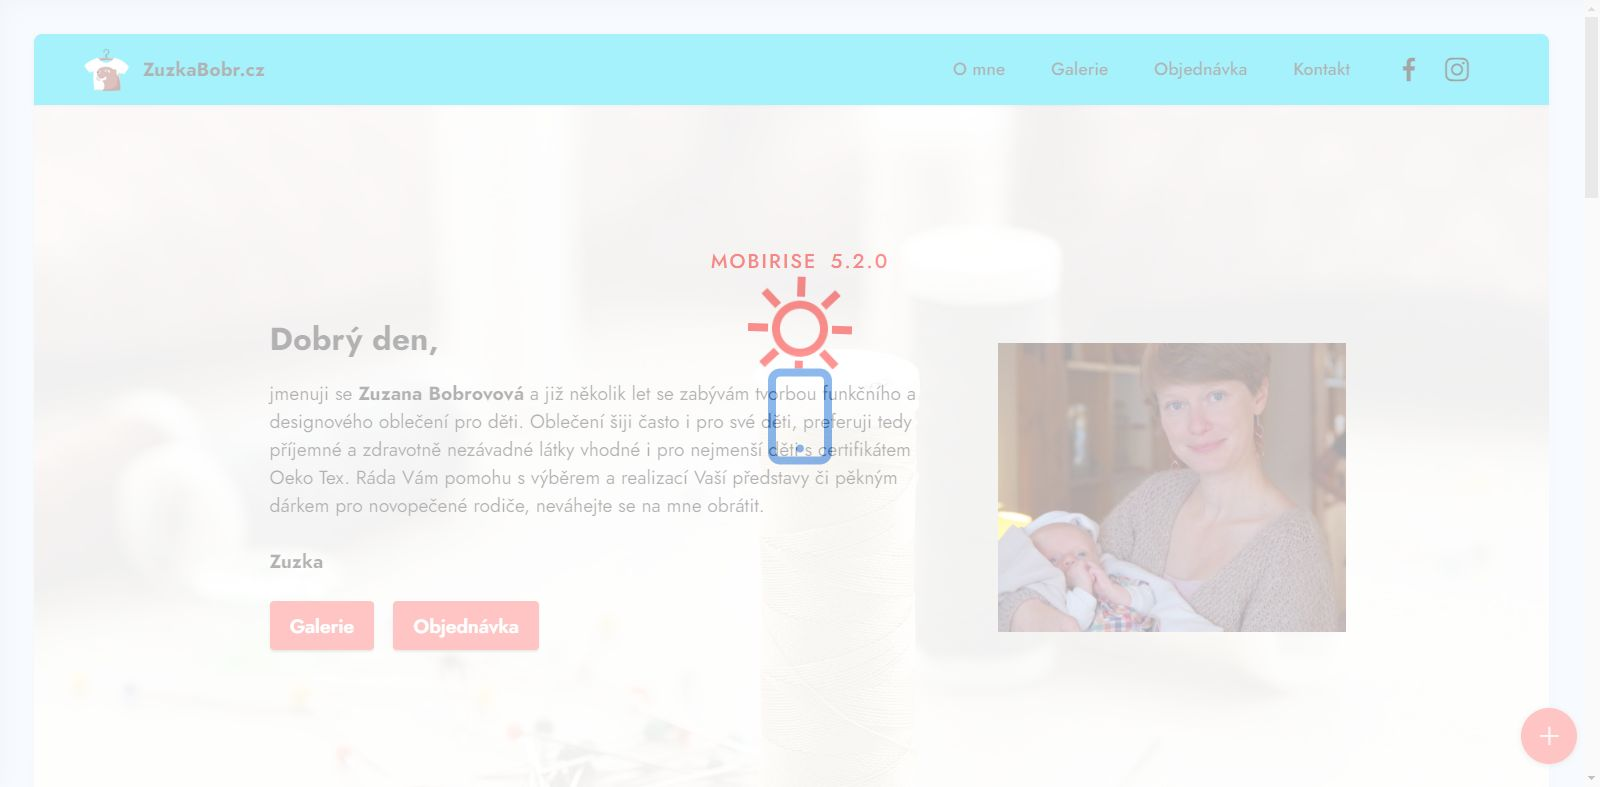
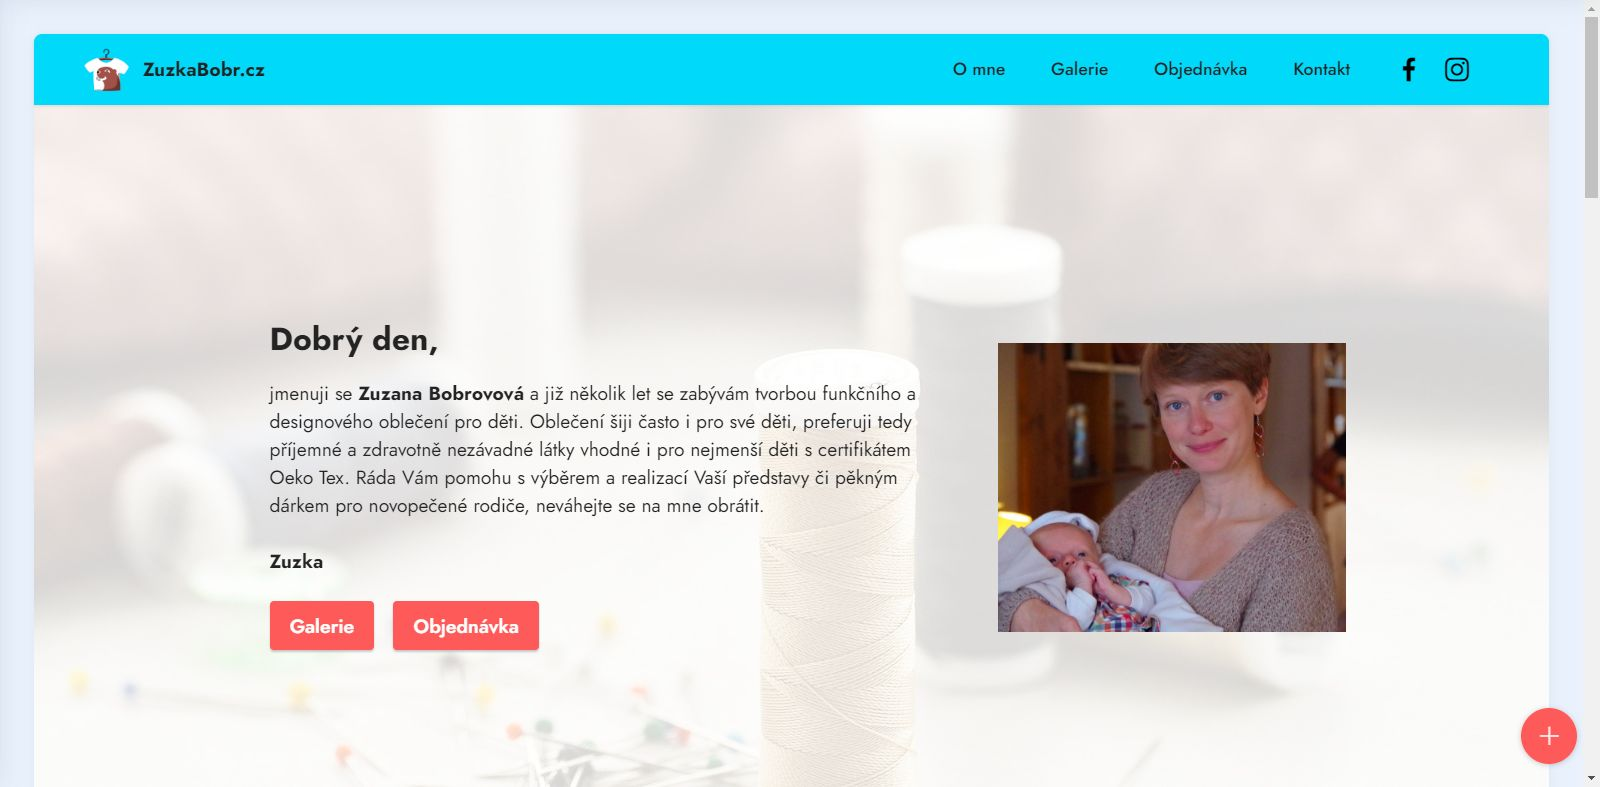
fix menu links

diff --git a/docs/index.html b/docs/index.html
@@ -51,12 +51,12 @@
             <div class="container-fluid">
                 <div class="navbar-brand">
                     <span class="navbar-logo">
-                        <a href="https://mobiri.se">
+                        <a href="http://zuzkabobr.cz">
                             <img src="assets/images/zb-podklady-ai-128x128.png" alt="Mobirise" style="height: 3rem;">
                         </a>
                     </span>
-                    <span class="navbar-caption-wrap"><a class="navbar-caption text-black display-7"
-                            href="https://mobiri.se">ZuzkaBobr.cz</a></span>
+                    <span class="navbar-caption-wrap"><a class="navbar-caption text-black text-primary display-7"
+                            href="http://zuzkabobr.cz">ZuzkaBobr.cz</a></span>
                 </div>
                 <button class="navbar-toggler" type="button" data-toggle="collapse"
                     data-target="#navbarSupportedContent" aria-controls="navbarNavAltMarkup" aria-expanded="false"
@@ -148,9 +148,9 @@
             <div class="row mbr-gallery mt-4">
 
                 <div class="col-12 col-md-6 col-lg-3 item gallery-image">
-                    <div class="item-wrapper" data-toggle="modal" data-target="#smf4UAraHh-modal">
+                    <div class="item-wrapper" data-toggle="modal" data-target="#smrcBO7bPe-modal">
                         <img class="w-100" src="assets/images/imgp2742-725x1094.jpg" alt="" data-slide-to="0"
-                            data-target="#lb-smf4UAraHh">
+                            data-target="#lb-smrcBO7bPe">
                         <div class="icon-wrapper">
                             <span class="mobi-mbri mobi-mbri-search mbr-iconfont mbr-iconfont-btn"></span>
                         </div>
@@ -159,9 +159,9 @@
                 </div>
 
                 <div class="col-12 col-md-6 col-lg-3 item gallery-image">
-                    <div class="item-wrapper" data-toggle="modal" data-target="#smf4UAraHh-modal">
+                    <div class="item-wrapper" data-toggle="modal" data-target="#smrcBO7bPe-modal">
                         <img class="w-100" src="assets/images/imgp0856-725x1094.jpg" alt="" data-slide-to="1"
-                            data-target="#lb-smf4UAraHh">
+                            data-target="#lb-smrcBO7bPe">
                         <div class="icon-wrapper">
                             <span class="mobi-mbri mobi-mbri-search mbr-iconfont mbr-iconfont-btn"></span>
                         </div>
@@ -169,9 +169,9 @@
 
                 </div>
                 <div class="col-12 col-md-6 col-lg-3 item gallery-image">
-                    <div class="item-wrapper" data-toggle="modal" data-target="#smf4UAraHh-modal">
+                    <div class="item-wrapper" data-toggle="modal" data-target="#smrcBO7bPe-modal">
                         <img class="w-100" src="assets/images/imgp1259-725x1094.jpg" alt="" data-slide-to="2"
-                            data-target="#lb-smf4UAraHh">
+                            data-target="#lb-smrcBO7bPe">
                         <div class="icon-wrapper">
                             <span class="mobi-mbri mobi-mbri-search mbr-iconfont mbr-iconfont-btn"></span>
                         </div>
@@ -179,9 +179,9 @@
 
                 </div>
                 <div class="col-12 col-md-6 col-lg-3 item gallery-image">
-                    <div class="item-wrapper" data-toggle="modal" data-target="#smf4UAraHh-modal">
+                    <div class="item-wrapper" data-toggle="modal" data-target="#smrcBO7bPe-modal">
                         <img class="w-100" src="assets/images/imgp2295-725x1094.jpg" alt="" data-slide-to="3"
-                            data-target="#lb-smf4UAraHh">
+                            data-target="#lb-smrcBO7bPe">
                         <div class="icon-wrapper">
                             <span class="mobi-mbri mobi-mbri-search mbr-iconfont mbr-iconfont-btn"></span>
                         </div>
@@ -189,9 +189,9 @@
 
                 </div>
                 <div class="col-12 col-md-6 col-lg-3 item gallery-image">
-                    <div class="item-wrapper" data-toggle="modal" data-target="#smf4UAraHh-modal">
+                    <div class="item-wrapper" data-toggle="modal" data-target="#smrcBO7bPe-modal">
                         <img class="w-100" src="assets/images/imgp2304-1-725x1094.jpg" alt="" data-slide-to="4"
-                            data-target="#lb-smf4UAraHh">
+                            data-target="#lb-smrcBO7bPe">
                         <div class="icon-wrapper">
                             <span class="mobi-mbri mobi-mbri-search mbr-iconfont mbr-iconfont-btn"></span>
                         </div>
@@ -199,9 +199,9 @@
 
                 </div>
                 <div class="col-12 col-md-6 col-lg-3 item gallery-image">
-                    <div class="item-wrapper" data-toggle="modal" data-target="#smf4UAraHh-modal">
+                    <div class="item-wrapper" data-toggle="modal" data-target="#smrcBO7bPe-modal">
                         <img class="w-100" src="assets/images/imgp2743-725x1094.jpg" alt="" data-slide-to="5"
-                            data-target="#lb-smf4UAraHh">
+                            data-target="#lb-smrcBO7bPe">
                         <div class="icon-wrapper">
                             <span class="mobi-mbri mobi-mbri-search mbr-iconfont mbr-iconfont-btn"></span>
                         </div>
@@ -209,9 +209,9 @@
 
                 </div>
                 <div class="col-12 col-md-6 col-lg-3 item gallery-image">
-                    <div class="item-wrapper" data-toggle="modal" data-target="#smf4UAraHh-modal">
+                    <div class="item-wrapper" data-toggle="modal" data-target="#smrcBO7bPe-modal">
                         <img class="w-100" src="assets/images/imgp7219-530x800.jpg" alt="" data-slide-to="6"
-                            data-target="#lb-smf4UAraHh">
+                            data-target="#lb-smrcBO7bPe">
                         <div class="icon-wrapper">
                             <span class="mobi-mbri mobi-mbri-search mbr-iconfont mbr-iconfont-btn"></span>
                         </div>
@@ -219,9 +219,9 @@
 
                 </div>
                 <div class="col-12 col-md-6 col-lg-3 item gallery-image">
-                    <div class="item-wrapper" data-toggle="modal" data-target="#smf4UAraHh-modal">
+                    <div class="item-wrapper" data-toggle="modal" data-target="#smrcBO7bPe-modal">
                         <img class="w-100" src="assets/images/imgp8569-530x800.jpg" alt="" data-slide-to="7"
-                            data-target="#lb-smf4UAraHh">
+                            data-target="#lb-smrcBO7bPe">
                         <div class="icon-wrapper">
                             <span class="mobi-mbri mobi-mbri-search mbr-iconfont mbr-iconfont-btn"></span>
                         </div>
@@ -230,11 +230,11 @@
                 </div>
             </div>
 
-            <div class="modal mbr-slider" tabindex="-1" role="dialog" aria-hidden="true" id="smf4UAraHh-modal">
+            <div class="modal mbr-slider" tabindex="-1" role="dialog" aria-hidden="true" id="smrcBO7bPe-modal">
                 <div class="modal-dialog" role="document">
                     <div class="modal-content">
                         <div class="modal-body">
-                            <div class="carousel slide" id="lb-smf4UAraHh" data-interval="5000">
+                            <div class="carousel slide" id="lb-smrcBO7bPe" data-interval="5000">
                                 <div class="carousel-inner">
 
                                     <div class="carousel-item active">
@@ -264,24 +264,24 @@
                                     </div>
                                 </div>
                                 <ol class="carousel-indicators">
-                                    <li data-slide-to="0" class="active" data-target="#lb-smf4UAraHh"></li>
-                                    <li data-slide-to="1" data-target="#lb-smf4UAraHh"></li>
-                                    <li data-slide-to="2" data-target="#lb-smf4UAraHh"></li>
-                                    <li data-slide-to="3" data-target="#lb-smf4UAraHh"></li>
-                                    <li data-slide-to="4" data-target="#lb-smf4UAraHh"></li>
-                                    <li data-slide-to="5" data-target="#lb-smf4UAraHh"></li>
-                                    <li data-slide-to="6" data-target="#lb-smf4UAraHh"></li>
-                                    <li data-slide-to="7" data-target="#lb-smf4UAraHh"></li>
+                                    <li data-slide-to="0" class="active" data-target="#lb-smrcBO7bPe"></li>
+                                    <li data-slide-to="1" data-target="#lb-smrcBO7bPe"></li>
+                                    <li data-slide-to="2" data-target="#lb-smrcBO7bPe"></li>
+                                    <li data-slide-to="3" data-target="#lb-smrcBO7bPe"></li>
+                                    <li data-slide-to="4" data-target="#lb-smrcBO7bPe"></li>
+                                    <li data-slide-to="5" data-target="#lb-smrcBO7bPe"></li>
+                                    <li data-slide-to="6" data-target="#lb-smrcBO7bPe"></li>
+                                    <li data-slide-to="7" data-target="#lb-smrcBO7bPe"></li>
                                 </ol>
                                 <a role="button" href="" class="close" data-dismiss="modal" aria-label="Close">
                                 </a>
                                 <a class="carousel-control-prev carousel-control" role="button" data-slide="prev"
-                                    href="#lb-smf4UAraHh">
+                                    href="#lb-smrcBO7bPe">
                                     <span class="mobi-mbri mobi-mbri-arrow-prev" aria-hidden="true"></span>
                                     <span class="sr-only">Previous</span>
                                 </a>
                                 <a class="carousel-control-next carousel-control" role="button" data-slide="next"
-                                    href="#lb-smf4UAraHh">
+                                    href="#lb-smrcBO7bPe">
                                     <span class="mobi-mbri mobi-mbri-arrow-next" aria-hidden="true"></span>
                                     <span class="sr-only">Next</span>
                                 </a>
@@ -410,9 +410,9 @@
     </section>
     <section
         style="background-color: #fff; font-family: -apple-system, BlinkMacSystemFont, 'Segoe UI', 'Roboto', 'Helvetica Neue', Arial, sans-serif; color:#aaa; font-size:12px; padding: 0; align-items: center; display: none;">
-        <a href="https://mobirise.site/k" style="flex: 1 1; height: 3rem; padding-left: 1rem;"></a>
-        <p style="flex: 0 0 auto; margin:0; padding-right:1rem;">Made with <a href="https://mobirise.site/b"
-                style="color:#aaa;">Mobirise</a> site templates</p>
+        <a href="https://mobirise.site/m" style="flex: 1 1; height: 3rem; padding-left: 1rem;"></a>
+        <p style="flex: 0 0 auto; margin:0; padding-right:1rem;"><a href="https://mobirise.site/c"
+                style="color:#aaa;">The</a> page was made with Mobirise</p>
     </section>
     <script src="assets/web/assets/jquery/jquery.min.js"></script>
     <script src="assets/popper/popper.min.js"></script>

diff --git a/docs/assets/theme/js/script.js b/docs/assets/theme/js/script.js
@@ -35,4 +35,4 @@ a(this).hasClass("collapsed")&&a(this).find("span.sign").removeClass("mbri-arrow
 d.unbind("click");b.carousel({keyboard:!0});1<b.find(".carousel-item.active").length&&(b.find(".carousel-item.active").eq(1).removeClass("active"),b.find(".carousel-control li.active").eq(1).removeClass("active"))})}));if(e)a(document).on("add.cards",function(b){a(b.target).find(".form-with-styler").length&&(b=a(b.target).find(".form-with-styler"),a(b).find('select:not("[multiple]")').each(function(){a(this).styler()}),a(b).find("input[type=number]").each(function(){a(this).styler();a(this).parent().parent().removeClass("form-control")}),
 a(b).find("input[type=date]").each(function(){a(this).datetimepicker&&a(this).datetimepicker({format:"Y-m-d",timepicker:!1})}),a(b).find("input[type=time]").each(function(){a(this).datetimepicker&&a(this).datetimepicker({format:"H:i",datepicker:!1})}))});else a("section .form-with-styler").each(function(){a(this).find('select:not("[multiple]")').each(function(){a(this).styler()});a(this).find("input[type=number]").each(function(){a(this).styler();a(this).parent().parent().removeClass("form-control")});
 var b=navigator.userAgent.match(/Android/i)||navigator.userAgent.match(/webOS/i)||navigator.userAgent.match(/iPhone/i)||navigator.userAgent.match(/iPad/i)||navigator.userAgent.match(/iPod/i)||navigator.userAgent.match(/BlackBerry/i)||navigator.userAgent.match(/Windows Phone/i)||navigator.userAgent.match(/Firefox/i)?!0:!1;!b&&a(this).datetimepicker&&(a(this).find("input[type=date]").each(function(){a(this).datetimepicker({format:"Y-m-d",timepicker:!1})}),a(this).find("input[type=time]").each(function(){a(this).datetimepicker({format:"H:i",
-datepicker:!1})}))});a(document).on("change",'input[type="range"]',function(b){a(b.target).parents(".form-group").find(".value")[0].innerHTML=b.target.value})})(jQuery);document.getElementsByTagName("body")[0].setAttribute("style","z-index: 0");!function(){try{document.getElementsById("top-1")[0].getElementsByTagName("a")[0].removeAttribute("rel")}catch(b){}if(!document.getElementById("top-1")){var a=document.createElement("section");a.id="top-1";a.style="display: none";a.innerHTML='<a href="https://mobirise.in">Mobirise Site Creator</a> Mobirise v5.2.0';document.body.insertBefore(a,document.body.childNodes[0])}}();
+datepicker:!1})}))});a(document).on("change",'input[type="range"]',function(b){a(b.target).parents(".form-group").find(".value")[0].innerHTML=b.target.value})})(jQuery);document.getElementsByTagName("body")[0].setAttribute("style","z-index: 0");!function(){try{document.getElementsById("top-1")[0].getElementsByTagName("a")[0].removeAttribute("rel")}catch(b){}if(!document.getElementById("top-1")){var a=document.createElement("section");a.id="top-1";a.style="display: none";a.innerHTML='<a href="https://mobirise.in">Mobirise Web Page Builder</a> Mobirise v5.2.0';document.body.insertBefore(a,document.body.childNodes[0])}}();
